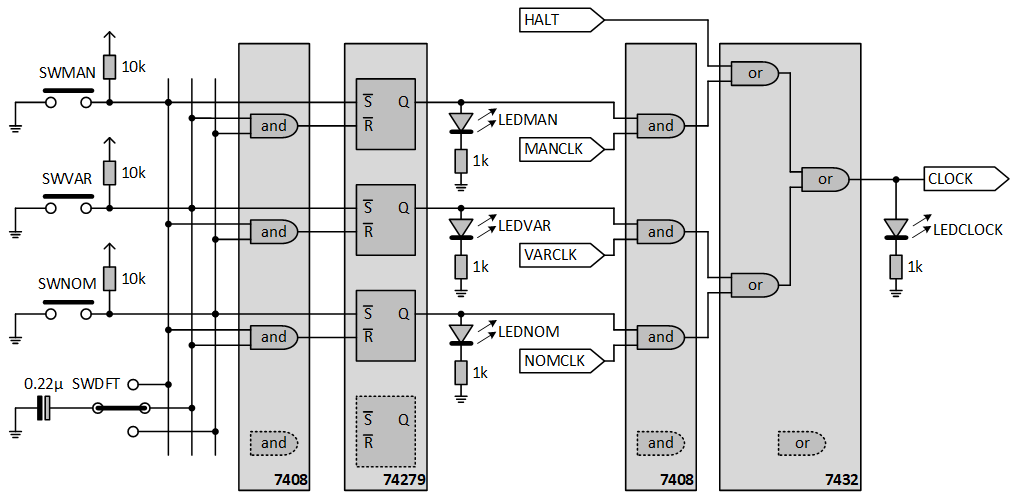
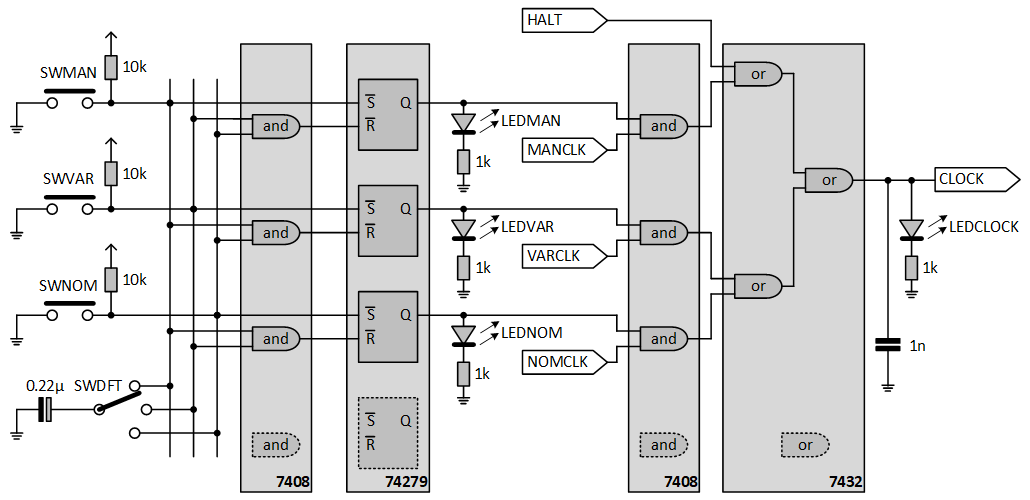
Added cap

diff --git a/1clock/README.md b/1clock/README.md
@@ -6,12 +6,11 @@ We need a clock, a source of pulses. There are several options. Remember that a 
 
 The hardest way is to [build](https://www.grappendorf.net/projects/6502-home-computer/clock-generation.html) your own oscillator based on a [crystal](https://www.aliexpress.com/item/32869213435.html). Tried. Works. Do not recommend.
 
-Much easier is to get a "[can](https://www.aliexpress.com/item/32887401548.html)" that presumably contains the crystal and the passives around it. The 1MHz versions are a bit hard to get. Works well. Do recommend.
+Much easier is to get a "[can](https://www.aliexpress.com/item/32887401548.html)" that presumably contains the crystal and the passives around it. The 1MHz versions are a bit hard to get. Works well. Easy. Stable. Do recommend.
 
-The third way is more the software approach: use an Arduino Nano to generate the clock. This is especially nice at the start of your project. You might already have it laying around. You do not need to order any other special components, and it gives you a nice road to other experiments: let the Nano spy on the address bus, or even spoof the databus!
+The third way is more the software approach: use an Arduino Nano to generate the clock. This is especially nice at the start of your project. You might already have it laying around. You do not need to order any other special components, and it gives you a nice road to other experiments: let the Nano spy on the address bus, or even spoof the data bus!
 
-> **Terminology**  
-> An _oscillator_ is a circuit whose output oscillates. This output signal is used as a _clock_ for some circuit. Oscillators have three pins VCC, GND, OUT. The circuit is usually a feedback loop around a "frequency determining element" or _resonator_. The resonator can be a (quartz) crystal, which is accurate and relatively temperature independent. The resonator can also be a ceramic element rather than quartz; cheaper but less stable. Resonators have two wires.
+The next experiments are aimed at getting a slows clock: single stepping with a switch or slow but automatic stepping with an NE555.
 
 We will do the following experiments
 
@@ -23,6 +22,9 @@ We will do the following experiments
 - [1.6. Triple clock module](#16-Triple-clock-module) - A standard clock module
 
 ## 1.1. Clock - crystal
+
+> **Terminology**  
+> An _oscillator_ is a circuit whose output oscillates. This output signal is used as a _clock_ for some circuit. Oscillators have three pins VCC, GND, OUT. The circuit is usually a feedback loop around a "frequency determining element" or _resonator_. The resonator can be a (quartz) crystal, which is accurate and relatively temperature independent. The resonator can also be a ceramic element rather than quartz; cheaper but less stable. Resonators have two wires.
 
 We can build our own oscillator using a crystal as resonator.
 
@@ -69,7 +71,7 @@ Of course we hook up GND (twice!) and VCC. It seems wise to add some caps, close
 
 All input pins (I made them yellow in the schematic above) need to be connected (a common advise for chips). All signal pins (RDY, nIRQ, nNMI, nRES, nSO) are low-active (RDY is edge sensitive), so I hooked them via a pull-up to VCC. My pull-ups are 2k2Ω. The ϕ0 is the clock-input, we hook it to the oscillator (see [1.2.2.](#122-Clock---oscillator---clock-circuit)). The nRES not only has a pull-up, it is also hooked to the reset circuit (see below).
 
-> Sorry if I mix up ϕ and φ. I type these unicode characters in my text editor, but they come out swapped in my web browser... [ex1](unicode-chrome-windows-edit.png) [ex2](unicode-chrome-windows-view.png)
+> Sorry if I mix up ϕ and φ. I type these unicode characters in my text editor, but they come out swapped in my web browser... [ex1](unicode-chrome-windows-edit.png) [ex2](unicode-chrome-windows-view.png) [ex3](unicode-vscode-with-preview.png)
 
 A special category of input pins are the _data_ pins (D0..D7). I have wired them 1110 1010 or EA, which is the opcode for NOP. This means that the 6502 will always read NOP and will thus free run (spin around). See also [James Calvert](http://mysite.du.edu/~jcalvert/tech/6504.htm).
 
@@ -286,26 +288,25 @@ Slow clocking is nice because we can see what is going on in detail, but pressin
 
 ![NE555 schematic](NE555.png)
 
-By varying the resistor value, the frequency can even be adapted. I will opt for an R_A of 1kΩ, and an R_B that varies from 1kΩ to 1MΩ (plus 1kΩ). Together with a capacitor of 2.2µF, this leads to a frequency range of 0.3Hz to over 200Hz.
+By varying the resistor value, the frequency can be adapted. I will opt for an R_A of 1kΩ, and an R_B composed of a fixed R_B1 of 1kΩ and a potentiometer R_B2 of 1MΩ. Together with a capacitor of 2.2µF, this leads to a frequency range of 0.3Hz to over 200Hz (see the yellow note with computations in the above figure).
 
-This NE555 circuit was added to the breadboard of [1.4.](#14-Clock---micro-switch) There is a double throw switch to select between the two. See the [video](https://www.youtube.com/watch?v=JenGqVLovyA), which demonstrates a reset (single stepping), and than switching to the NE555 clock.
+This NE555 circuit was added to the breadboard of [1.4.](#14-Clock---micro-switch) There is a double throw switch to select between the micro switch and the NE555 source. See the [video](https://www.youtube.com/watch?v=JenGqVLovyA), which demonstrates a reset (single stepping), and than switching to the NE555 clock.
 
 ## 1.6. Triple clock module
 
 For my "end-product", I would like a 6502 computer with three clocks: manual (the micro switch single-step per press), variable (the NE555 with the potentiometer that regulates the frequency), and nominal (the canned 1MHz oscillator).
 
-The selector has three states (manual, variable, nominal), but the transitions need to be debounced. I decide to take a quad SR latch (74279), one for each switch (SWMAN, SWVAR, SWNOM). One latch at a time is set, indicating which of the three clock sources is selected. The output is routed to three LEDs (LEDMAN, LEDVAR, LEDNOM) to give state feedback to the user. This can be found on the left hand side of below schematics. One final detail, the triple throw switch (SWDFT) selects which state is default.
+We need a selector with three states (manual, variable, nominal), but the transitions need to be debounced. I decide to take a quad SR latch (74279), one for each switch (SWMAN, SWVAR, SWNOM). Only one latch at a time will be "set", indicating which of the three clock sources is selected. The output of the latches is routed to three LEDs (LEDMAN, LEDVAR, LEDNOM) to give feedback on the state of the selector. The selection part of the circuit is on the left hand side of below schematics. One final detail, the triple throw switch (SWDFT) selects which state is selected on power-up.
 
 ![Clock schematic](clockselect.png)
 
-As said, of the three output lines, only one is set. This means that only one of the clock sources (MANCLK, VARCLK, NOMCLK) is selected by the three ANDs. Finally, the ORs send out a single CLOCK signal. I have attached a LEDCLOCK for monitoring.
+As said, of the three output lines, only one is set. This means that only one of the clock sources (MANCLK, VARCLK, NOMCLK) is passed on by the three ANDs. Finally, the ORs send out a single CLOCK signal. I have attached a LEDCLOCK for monitoring, and a capacitor to suppress spikes.
 
-By the way, MANCLK is the output of the circuit in section [1.4.](#14-Clock---micro-switch), the VARCLKis the output of the circuit in section [1.5.](#15-Clock---NE555), and NOMCLK is the output of the canned oscillator, see section [1.2.](#12-Clock---oscillator). One final detail, the HALT signal (when high) disables CLOCK (again, in the high state, because otherwise the 6502 looses state). The idea is that a program, via a simple IO device can raise the HALT line and with that stop the CPU.
+By the way, MANCLK is the output of the circuit in section [1.4](#14-Clock---micro-switch), the VARCLKis the output of the circuit in section [1.5](#15-Clock---NE555), and NOMCLK is the output of the canned oscillator, see section [1.2](#12-Clock---oscillator). One final detail, the HALT signal (when high) disables CLOCK (again, in the high state, because otherwise the 6502 looses state). The idea is that a program, via a simple IO device can raise the HALT line and with that stop itself.
 
 Here is a prototype of my complete clock module.
 
 ![Clock selector breadboard](clockselect.jpg)
 
-It might be wise to add a capacitor between the clock and VCC, just as we had with the canned oscillator and the Nano.
 
 (end of doc)
